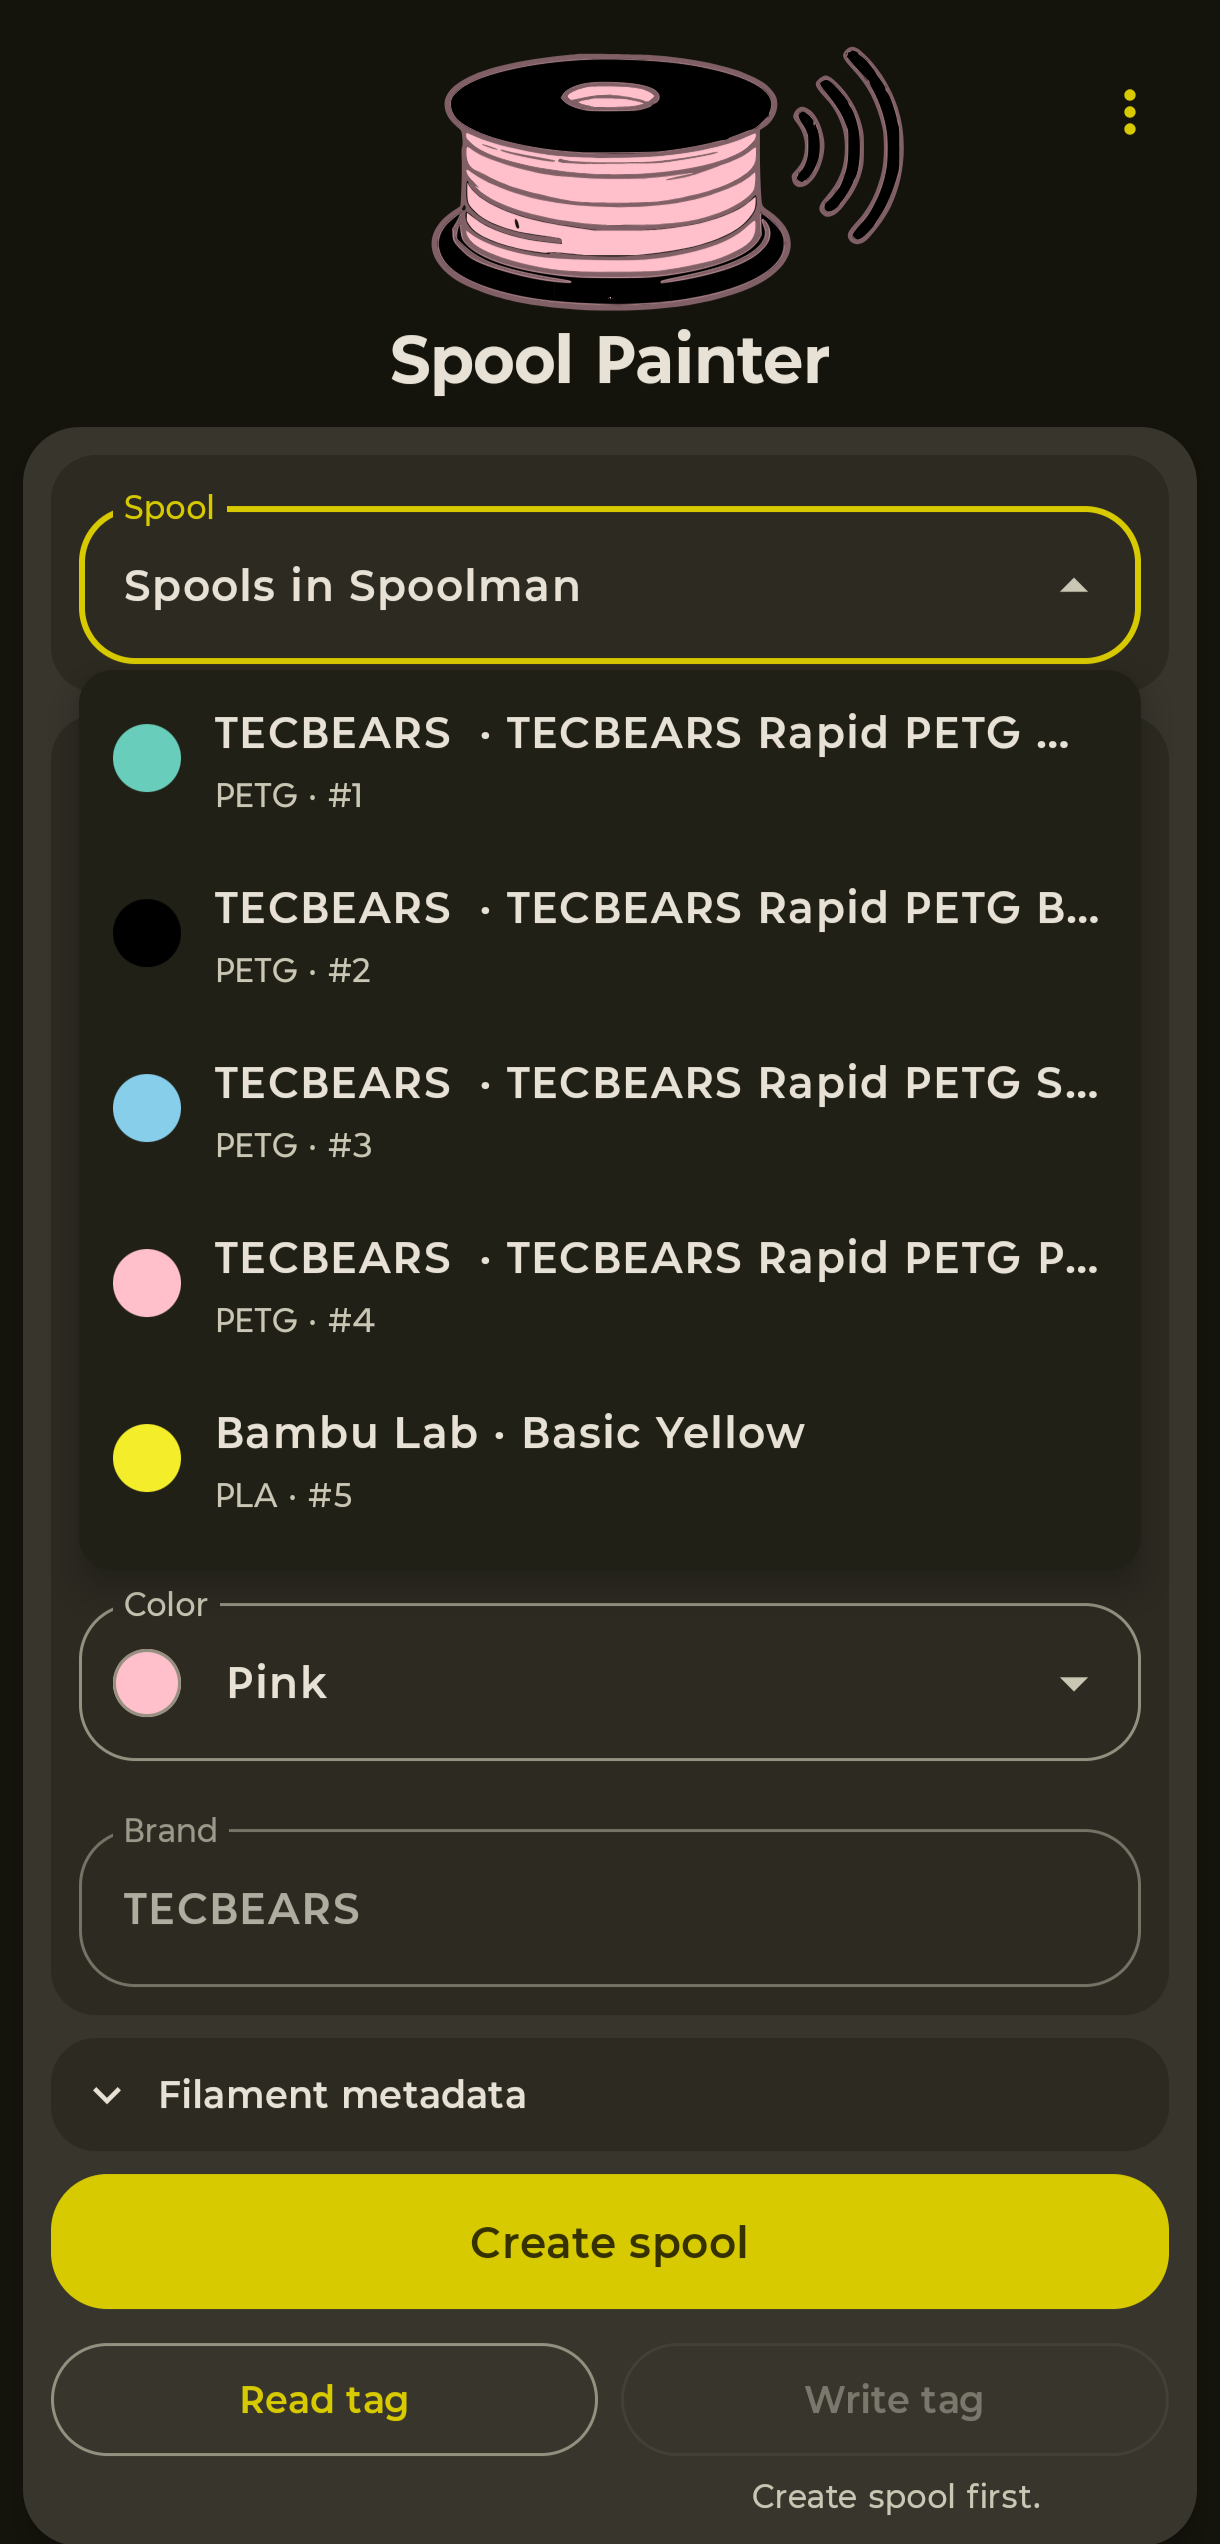
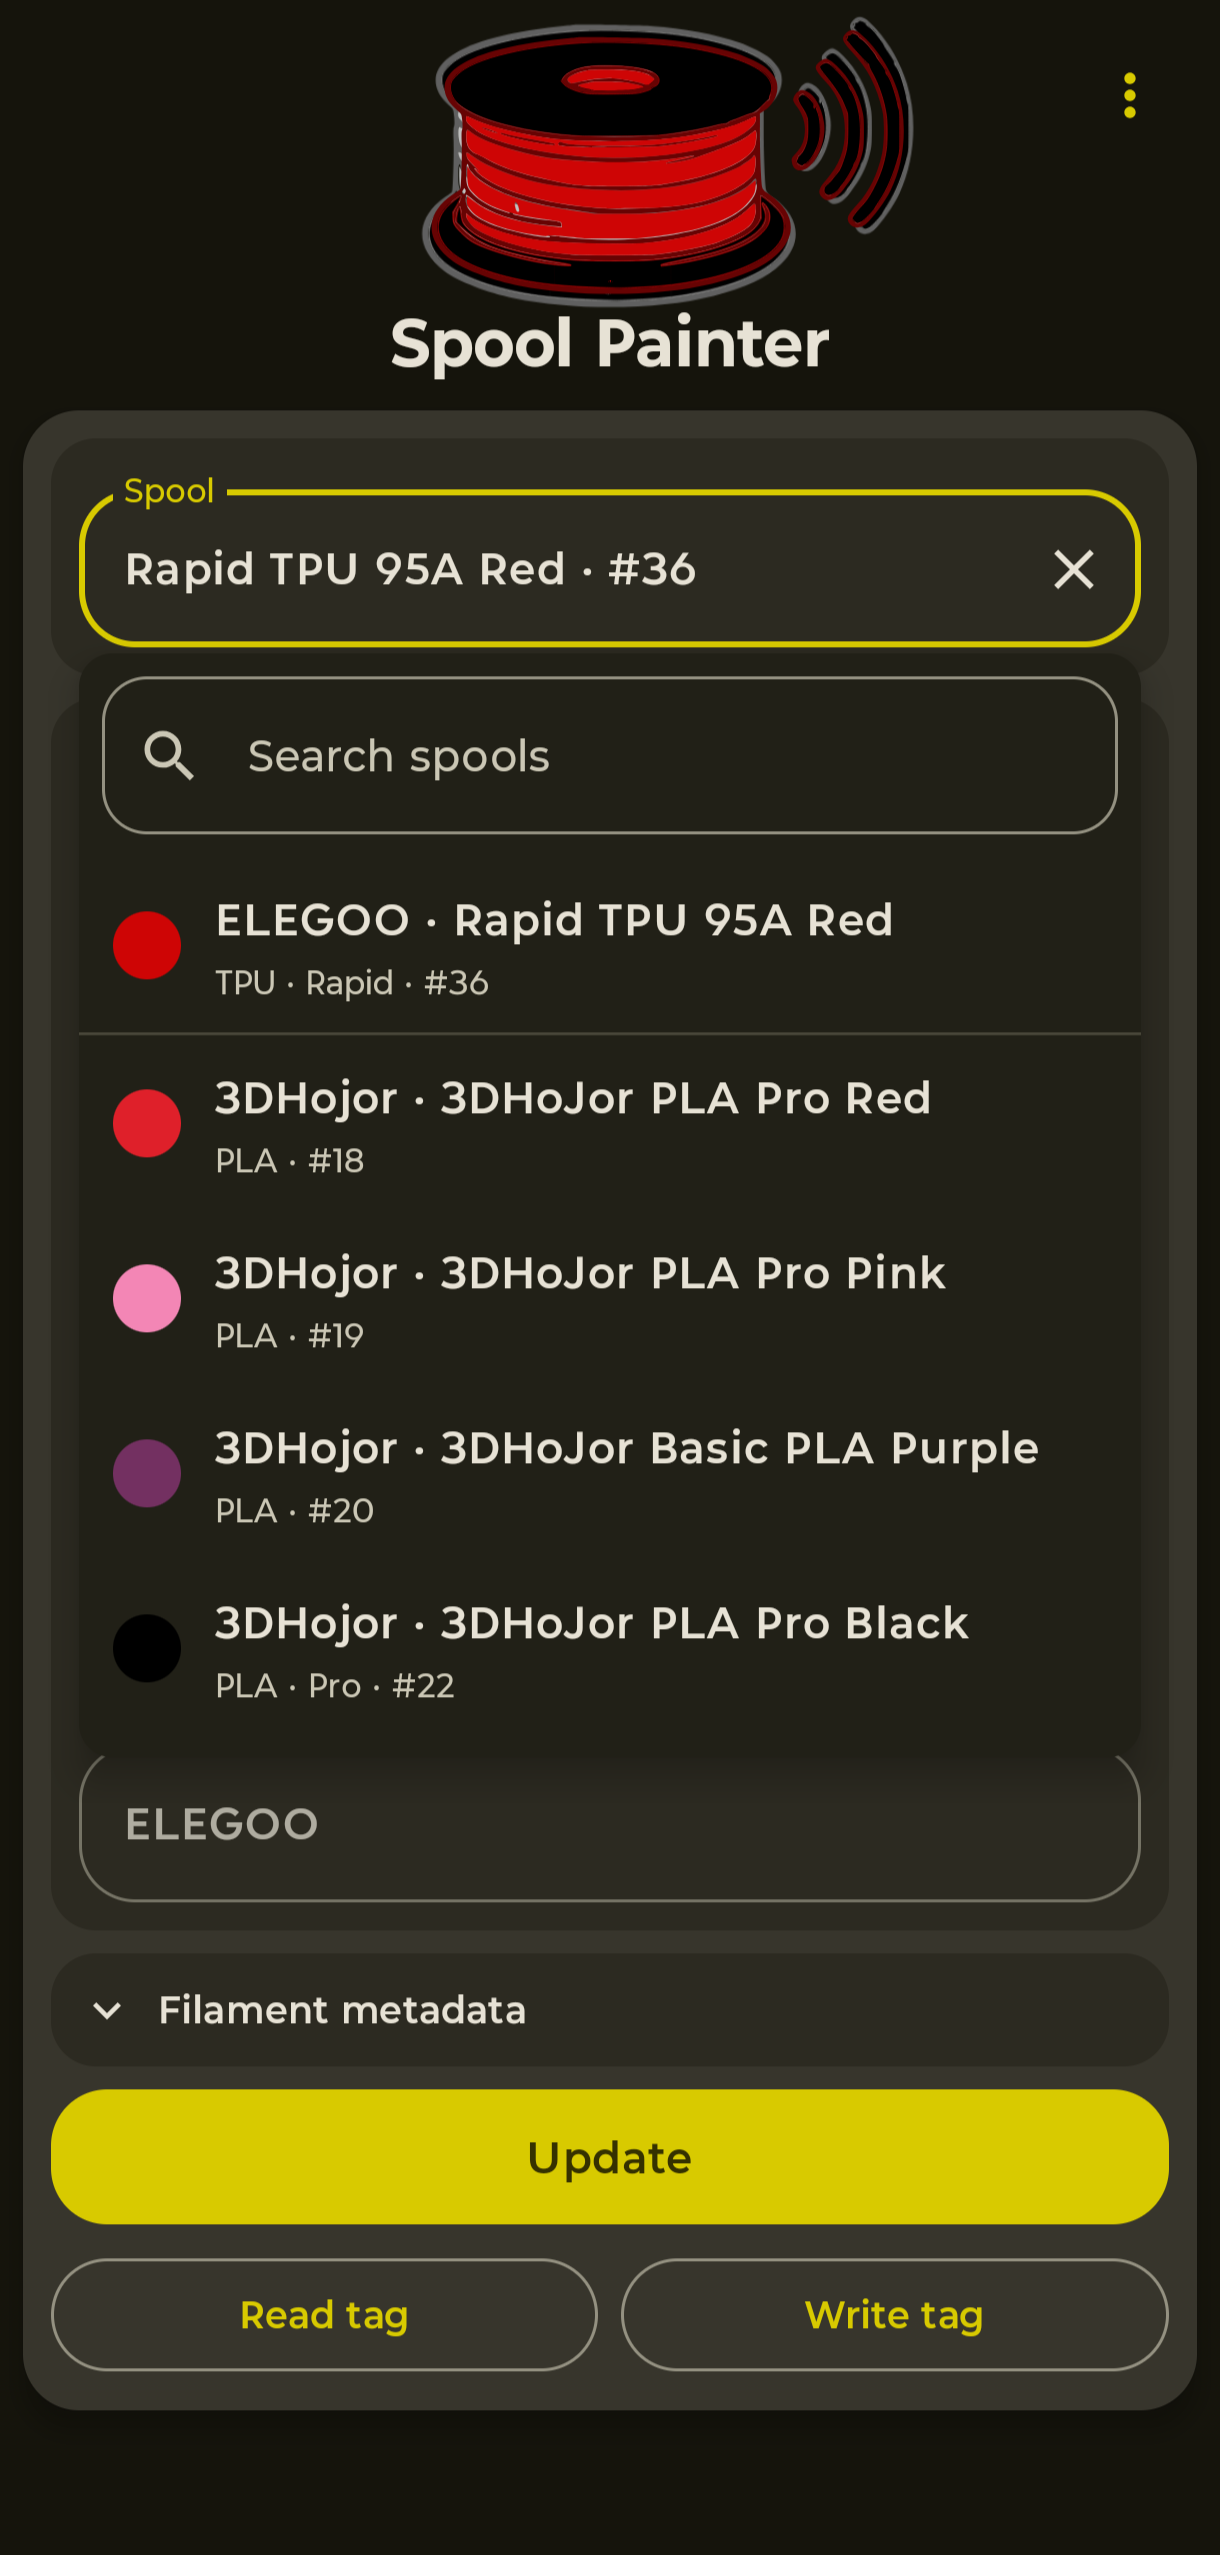
docs: refresh screenshots for v2.3.0 type-to-search
- Slot 2 (02-spool-dropdown): dropdown now shows the Search spools box over
  the rich rows.
- Slot 11 (11-search, new): picker filtered live by a typed query (wo ->
  PLA Wood spools). Added to the README screenshot tables + slot doc.

Captured on-device (moto g stylus 2025 / Android 16), debug build.

diff --git a/screenshots/README.md b/screenshots/README.md
@@ -8,12 +8,13 @@ captures will land here before the Play Store testing-track upload.
 | Slot | File | Content |
 |---|---|---|
 | 1 | `01-main.png` | Main screen with a paired spool selected. Logo header, dropdown showing a real spool, form populated, Read FAB visible. Establishes "what the app looks like in normal use." |
-| 2 | `02-spool-dropdown.png` | Spool dropdown open showing the v2.0.2 rich rows: 24dp colour swatch + bold "Vendor · Name" first line + faded "Material · Variant · #id" second line. Sells the "find your filament fast" inventory browse. |
+| 2 | `02-spool-dropdown.png` | Spool picker open with the v2.3.0 "Search spools" box at the top over the rich rows: 24dp colour swatch + bold "Vendor · Name" first line + faded "Material · Variant · #id" second line. Sells the "find your filament fast" inventory browse. |
 | 3 | `03-form-expanded.png` | Form with Filament section + Color picker + "Filament metadata" expander all open, showing temps + Remaining/Measured + filament metadata fields. Sells the v2 form depth. |
 | 4 | `04-pair-another.png` | "Pair another tag?" sheet shown right after a successful Save & Write. Sells the multi-tag-per-spool flow that's unique to v2. |
 | 5 | `05-settings.png` | Settings screen — Spoolman URL filled, sort dropdowns + segmented Asc/Desc controls, currency segmented row, theme toggle visible on the top bar. Sells "configurable, your-Spoolman." |
 | 6 | `06-move-on-bind.png` | Move-on-bind repair-confirm sheet listing a previous owner. Sells the conflict handling. |
 | 7 | `07-vendor-chip.png` | Vendor-tag inline chip ("Vendor tag — we can't read this tag's contents…") with the tertiary-tinted Info icon. Sells the v2 honest UX for tags we can't decode yet. |
+| 11 | `11-search.png` | Spool picker filtered live by a typed query (e.g. "wo" → PLA Wood spools), keyboard up. Sells the v2.3.0 type-to-search across a large inventory (UI-48). |
 
 ## Capture recipe
 

diff --git a/README.md b/README.md
@@ -20,9 +20,9 @@ It is a single-user, sideloadable Android app. No accounts, no cloud, no analyti
 
 ## Screenshots
 
-| Main screen | Spool dropdown | Form + filament metadata |
+| Main screen | Spool picker + search | Form + filament metadata |
 |---|---|---|
-| ![Main screen with paired spool](screenshots/01-main.png) | ![Spool dropdown open with colour swatches](screenshots/02-spool-dropdown.png) | ![Form with metadata expander](screenshots/03-form-expanded.png) |
+| ![Main screen with paired spool](screenshots/01-main.png) | ![Spool picker open with search box and colour swatches](screenshots/02-spool-dropdown.png) | ![Form with metadata expander](screenshots/03-form-expanded.png) |
 
 | Pair another tag | Settings | Vendor key field |
 |---|---|---|
@@ -35,6 +35,10 @@ It is a single-user, sideloadable Android app. No accounts, no cloud, no analyti
 | Weight: Remaining / Measured | Scan color with the camera |
 |---|---|
 | ![Weight radio with Measured selected](screenshots/09-weight-radio.png) | ![Camera color sampler over a spool](screenshots/10-camera-color.png) |
+
+| Type to search the pickers |
+|---|
+| ![Spool picker filtered live by a typed query](screenshots/11-search.png) |
 
 ## What's new in v2.2
 
